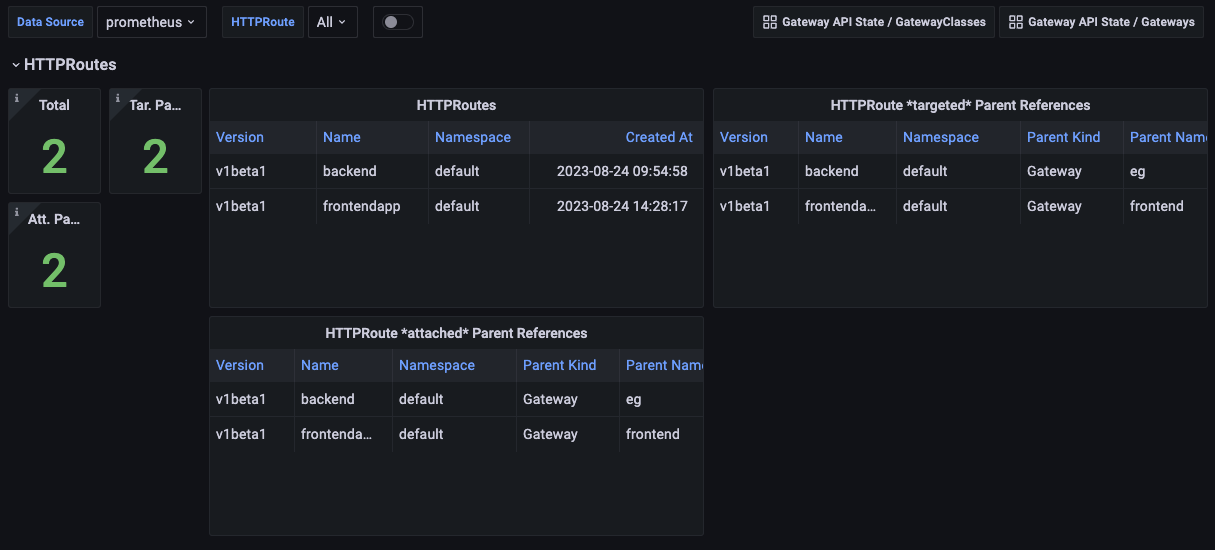
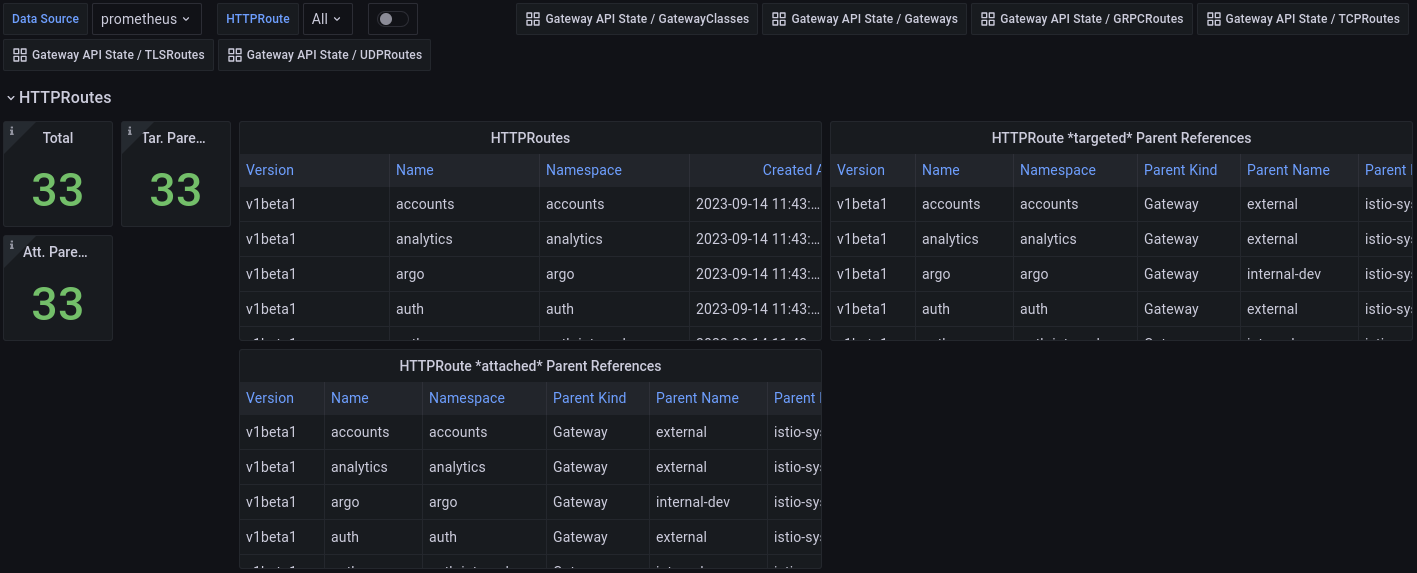
README update

diff --git a/README.md b/README.md
@@ -31,9 +31,9 @@ and the various Gateway API resources in the `gateway.networking.k8s.io` apiGrou
 A set of Grafana dashboards are available in [./config/examples/dashboards](./config/examples/dashboards)
 and on [grafana.com](https://grafana.com/grafana/dashboards/?search=Gateway+API+State)
 You can import them directly into Grafana and modify as needed.
-The dashboards are divided by resources (GatewayClasses, Gateways and HTTPRoutes),
+The dashboards are divided by resources (GatewayClasses, Gateways, HTTPRoutes, GRPCRoutes, TLSRoutes, TCPRoutes and UDPRoutes),
 with variables for filtering, and links to drill down from a GatewayClass to a
-Gateway to a HTTPRoute.
+Gateway to all the routes.
 
 https://grafana.com/grafana/dashboards/19432
 <img src="gatewayclasses.png" alt="gatewayclasses" width="800"/>
@@ -43,6 +43,18 @@ https://grafana.com/grafana/dashboards/19433
 
 https://grafana.com/grafana/dashboards/19434
 <img src="httproutes.png" alt="httproutes" width="800"/>
+
+https://grafana.com/grafana/dashboards/19570
+<img src="grpcroutes.png" alt="grpcroutes" width="800"/>
+
+https://grafana.com/grafana/dashboards/19572
+<img src="tlsroutes.png" alt="tlsroutes" width="800"/>
+
+https://grafana.com/grafana/dashboards/19571
+<img src="tcproutes.png" alt="tcproutes" width="800"/>
+
+https://grafana.com/grafana/dashboards/19573
+<img src="udproutes.png" alt="udproutes" width="800"/>
 
 ## Alerts
 
